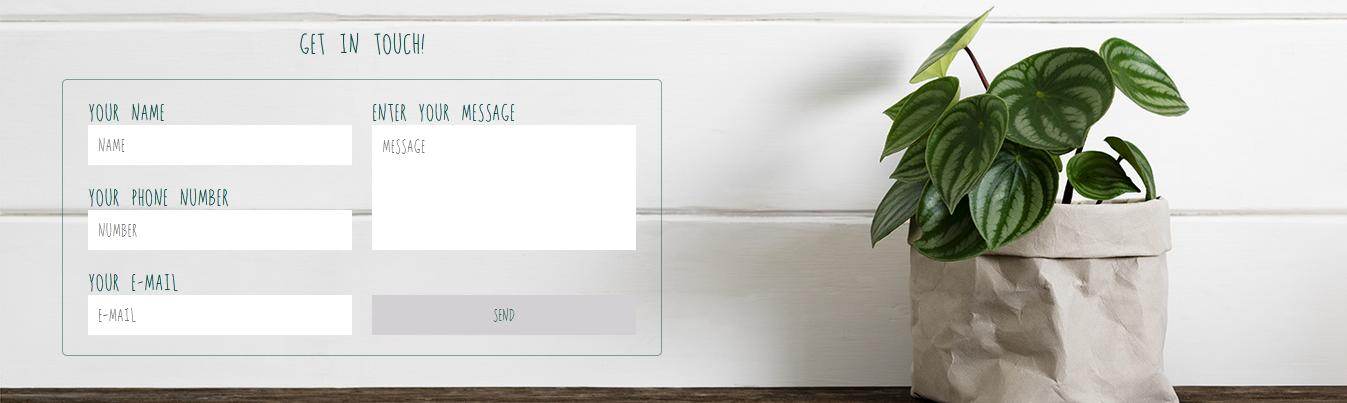
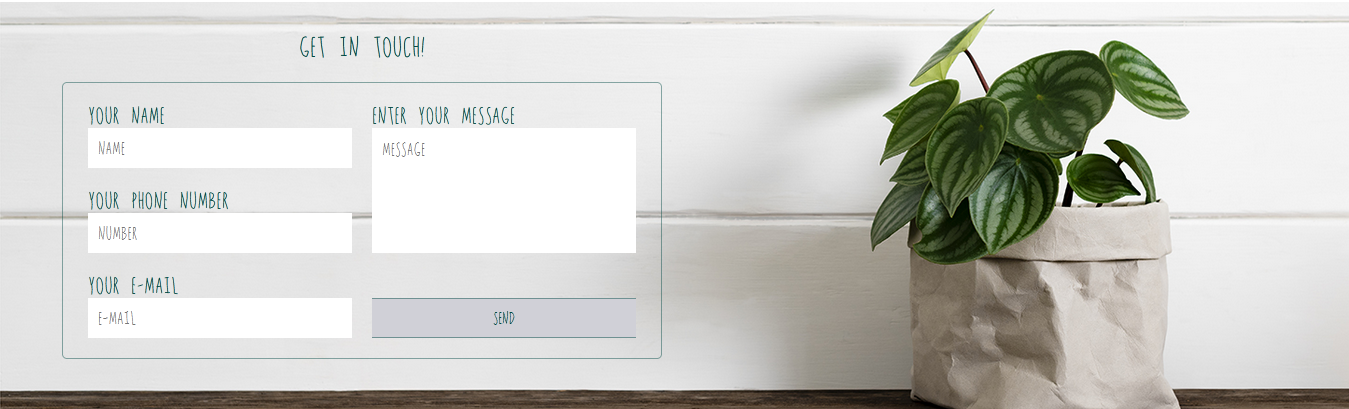
footer is done

diff --git a/index.html b/index.html
@@ -559,19 +559,6 @@
 						</form>
 					</div>
 				</div>
-				<!-- <div class="footer__col">
-					<div class="footer__item-contacts">
-						<ul class="footer__phone">
-							<li class="footer__link-phones">
-								<a data-goto="" href="tel:+15616443021" class="menu__link">+1 (561) 644-3021</a>
-								<a data-goto="" href="tel:+15616443021" class="menu__link">+1 (561) 644-3022</a>
-							</li>
-						</ul>
-						<a href="index.html" class="footer__logo">
-							<img src="./img/footer/footer-logo.png" alt="Garden Designs">
-						</a>
-					</div>
-				</div> -->
 			</div>
 		</div>
 	</footer>	

diff --git a/css/style.css b/css/style.css
@@ -1014,7 +1014,7 @@ form * {
   width: 600px;
   border: 1px solid #00494371;
   border-radius: 5px;
-  padding: 20px 25px;
+  padding: 20px 15px;
   position: relative;
 }
 
